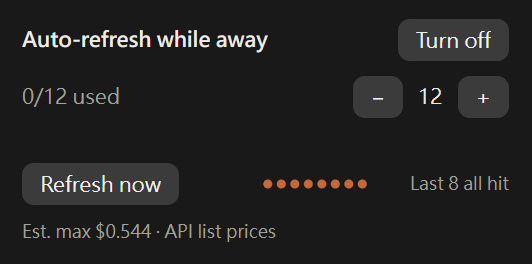
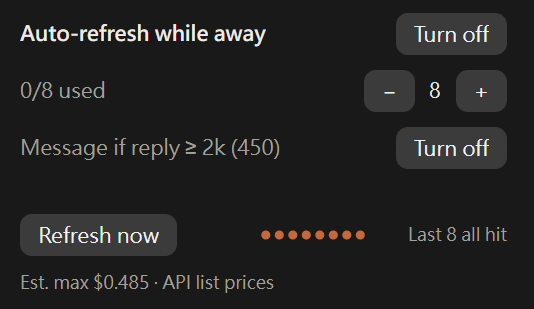
Show the long-reply switch in the README's auto-refresh screenshot

diff --git a/README.md b/README.md
@@ -30,7 +30,7 @@ After a long turn, run `/cache-status` to get the same figures in text: how long
 
 When you know you will be away, auto-refresh sends one small request shortly before the cache would expire, which keeps it alive. It is off by default. **Each refresh uses a little of your plan usage or API credit.**
 
-![The auto-refresh switch, its limit, the Refresh now button and the recent cache hits](docs/panel-auto-refresh.png)
+![The auto-refresh switch, its limit, the long-reply switch with the last reply's length, the Refresh now button and the recent cache hits](docs/panel-auto-refresh.png)
 
 - Turn it on with Refresh on the status bar, "Turn on" in the panel, or `/cache-auto on 12`.
 - It stops at the limit you set (12 per idle period unless you change it), and before the refreshes would cost more than one rebuild. The panel estimates how long the cache can be kept.
